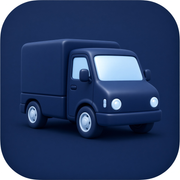
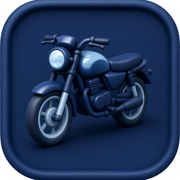
#D changed to bike

diff --git a/modules/stock/stock-app.tsx b/modules/stock/stock-app.tsx
@@ -31,7 +31,7 @@ import {
   RefreshCw,
   Search,
   ShieldCheck,
-  Truck,
+  Bike,
   Upload,
   X,
 } from 'lucide-react'
@@ -503,7 +503,7 @@ export function StockApp() {
         {!recordsReady ? <RecordsSkeleton /> : <>
         {active === 'Overview' && <>
           <div className="kpi-grid">
-            <button type="button" className="kpi-card kpi-card-button" onClick={() => go('Vehicles')}><div className="kpi-icon blue"><Truck size={19} /></div><div><p className="eyebrow">Total vehicles</p><div className="kpi-value">{vehicleCount}</div><p className="kpi-detail">{fleet?.config?.spreadsheetName || 'Plates from Sheets, filenames, and photo OCR'}</p></div></button>
+            <button type="button" className="kpi-card kpi-card-button" onClick={() => go('Vehicles')}><div className="kpi-icon blue"><Bike size={19} /></div><div><p className="eyebrow">Total vehicles</p><div className="kpi-value">{vehicleCount}</div><p className="kpi-detail">{fleet?.config?.spreadsheetName || 'Plates from Sheets, filenames, and photo OCR'}</p></div></button>
             <button type="button" className="kpi-card kpi-card-button" onClick={() => { setStatusFilter('Complete'); setVehiclePage(1); go('Vehicles') }}><div className="kpi-icon green"><ClipboardCheck size={19} /></div><div><p className="eyebrow">Complete packs</p><div className="kpi-value">{complete}</div><p className="kpi-detail">{shareLabel(complete, vehicleCount)} complete · logbook, agreement, certificate, photo, collateral</p></div></button>
             <button type="button" className="kpi-card kpi-card-button" onClick={() => { setStatusFilter('Needs attention'); setVehiclePage(1); go('Vehicles') }}><div className="kpi-icon orange"><AlertCircle size={19} /></div><div><p className="eyebrow">Need attention</p><div className="kpi-value">{attention}</div><p className="kpi-detail">{shareLabel(attention, vehicleCount)} missing a document</p></div></button>
             <button type="button" className="kpi-card kpi-card-button" onClick={() => go('Processing')}><div className="kpi-icon purple"><RefreshCw size={19} /></div><div><p className="eyebrow">Last sync</p><div className="kpi-value">{fleet?.lastSync ? 'Synced' : '—'}</div><p className="kpi-detail">{configured ? lastSyncLabel : 'Folders not configured'}</p></div></button>

diff --git a/modules/stock/model.ts b/modules/stock/model.ts
@@ -10,7 +10,7 @@ import {
   Mail,
   RefreshCw,
   Settings,
-  Truck,
+  Bike,
 } from 'lucide-react'
 import type { ProcessFocus } from '@/lib/process-focus'
 
@@ -65,7 +65,7 @@ export const TO_SLUG: Record<NavKey, ViewSlug> = {
 
 export const nav = [
   { label: 'Overview' as const, icon: LayoutDashboard },
-  { label: 'Vehicles' as const, icon: Truck },
+  { label: 'Vehicles' as const, icon: Bike },
   { label: 'Insurance inbox' as const, icon: Mail },
   { label: 'Logbook inbox' as const, icon: FileText },
   { label: 'Processing' as const, icon: RefreshCw },
